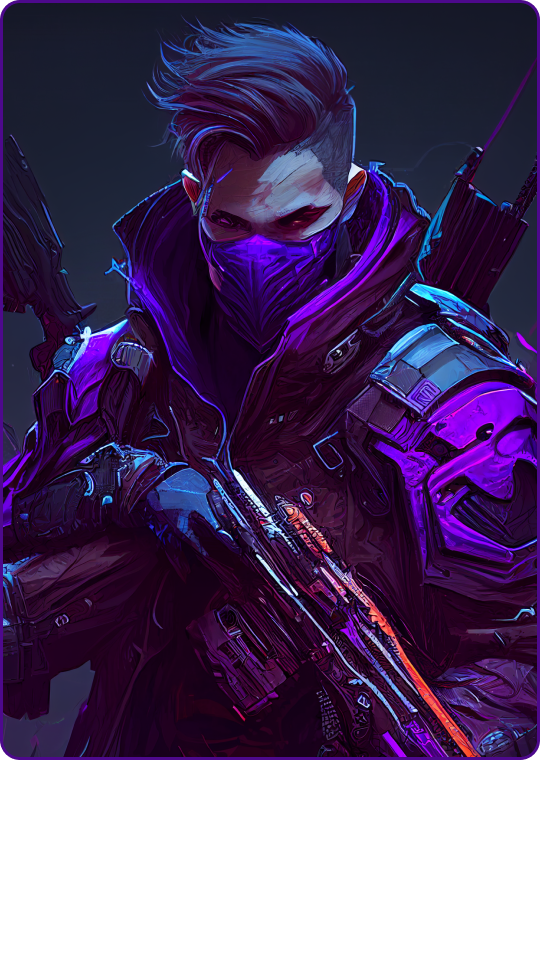
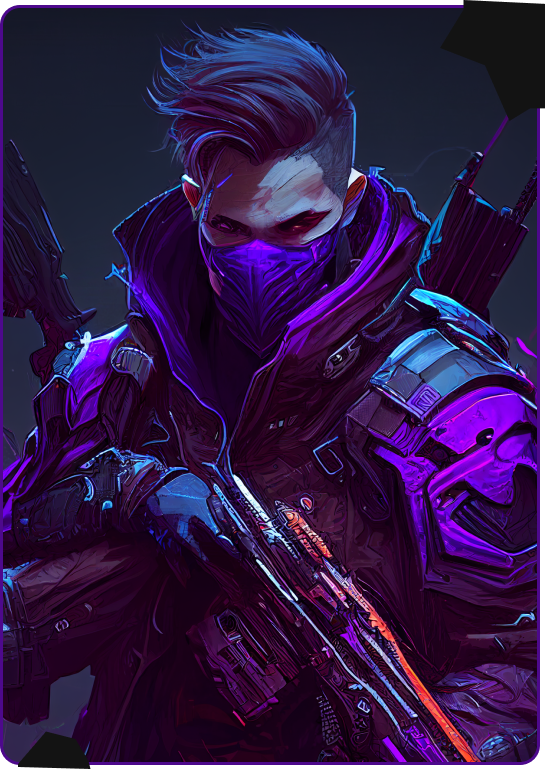
Hometask3

diff --git a/site.scss b/site.scss
@@ -6,10 +6,6 @@
 
 $white_color: #ffffff;
 $purple_color: #99449f;
-.cardsize{
-  width: 540px;
-  height: 934px;
-}
 
 @font-face {
   font-family: "BrokenDetroit";
@@ -26,7 +22,6 @@ $purple_color: #99449f;
   background-color: #131313;
   .Partsmain {
     display: flex;
-    flex-direction: column;
 
     .Firstpart {
       position: relative;
@@ -79,68 +74,70 @@ $purple_color: #99449f;
         margin-top: 397px;
       }
     }
-
-  .Secondpartmain {
-    background: #131313;
-    width: 100%;
-    position: relative;
-    .Secondpartmaindescription {
-      background-color: #131313;
-      color: white;
-      text-align: center;
-      font-family: "LexendGiga";
-      font-size: 24px;
-      font-weight: 400;
-      margin-top: 161px;
-      display: flex;
-      justify-content: center;
-      align-items: center;
-    }
-    .stone1 {
-      width: 58px;
-      height: 58px;
-      flex-shrink: 0;
-      position: absolute;
-      top: 90px;
-      left: 342px;
-    }
-    .stone2 {
-      width: 123px;
-      height: 123px;
-      flex-shrink: 0;
-      position: absolute;
-      top: 119px;
-      right: 76px;
-    }
-    .stone3 {
-      width: 367px;
-      height: 367px;
-      flex-shrink: 0;
-      position: absolute;
-      top: 332px;
-      left: 1px;
-    }
-  }
-  .Charactersmain {
-    margin: 140px 0px 0px 658px;
-    font-family: "BrokenDetroit";
-    color: $white_color;
-    font-size: 96px;
-    font-weight: 400;
-    letter-spacing: 9.6px;
-    & span {
-      color: $purple_color;
-    }
   }
 
-  .firstcards{
-    .cardsimages{
-      .firstline{
-        .cardsanddes1{
-          
+    .Secondpartmain {
+      background: #131313;
+      width: 100%;
+      position: relative;
+      .Secondpartmaindescription {
+        background-color: #131313;
+        color: white;
+        text-align: center;
+        font-family: "LexendGiga";
+        font-size: 24px;
+        font-weight: 400;
+        margin-top: 161px;
+        display: flex;
+        justify-content: center;
+        align-items: center;
+      }
+      .stone1 {
+        width: 58px;
+        height: 58px;
+        flex-shrink: 0;
+        position: absolute;
+        top: 90px;
+        left: 342px;
+      }
+      .stone2 {
+        width: 123px;
+        height: 123px;
+        flex-shrink: 0;
+        position: absolute;
+        top: 119px;
+        right: 76px;
+      }
+      .stone3 {
+        width: 367px;
+        height: 367px;
+        flex-shrink: 0;
+        position: absolute;
+        top: 332px;
+        left: 1px;
+      }
+      .Charactersmain {
+        margin: 140px 0px 0px 658px;
+        font-family: "BrokenDetroit";
+        color: $white_color;
+        font-size: 96px;
+        font-weight: 400;
+        letter-spacing: 9.6px;
+        & span {
+          color: $purple_color;
+        }
+      }
+      .firstcards{
+        margin-top: 160px;
+        .cardsimages{
+          .firstline{
+            color: #131313;
+          }
         }
       }
 
-   }
- }
+    }
+
+    
+  
 }
